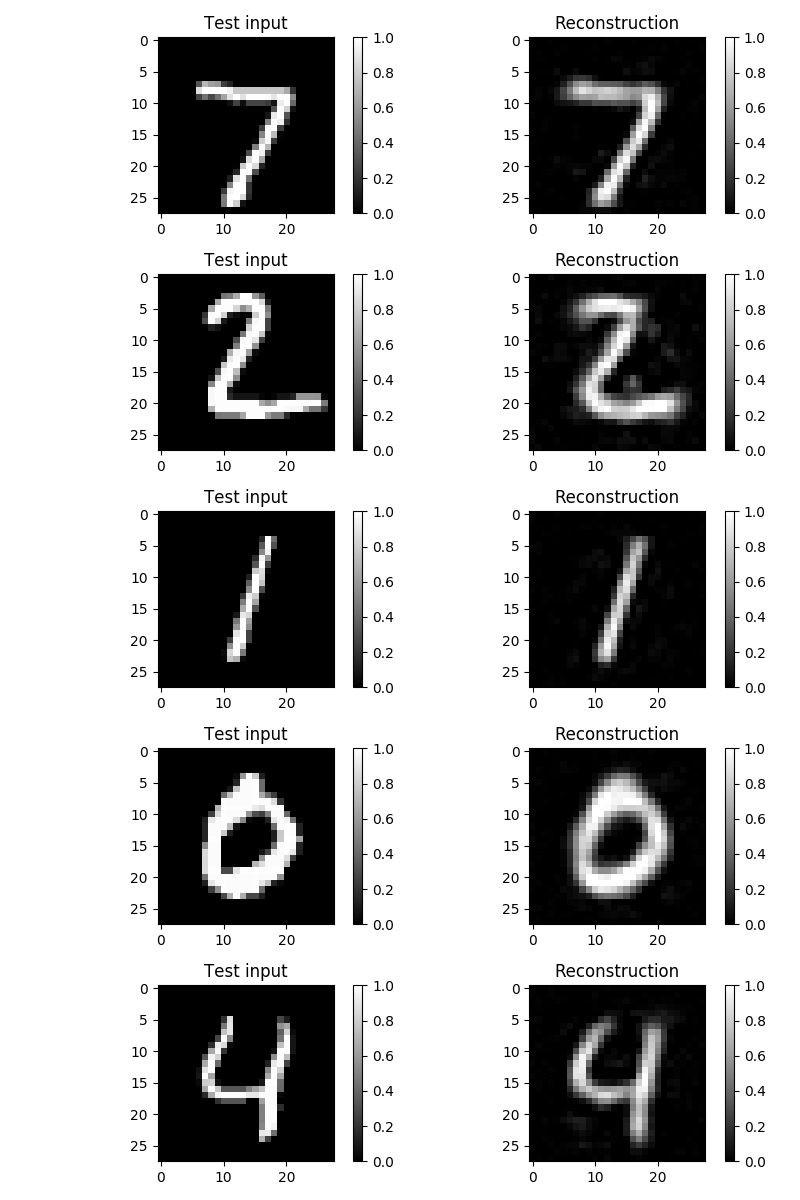
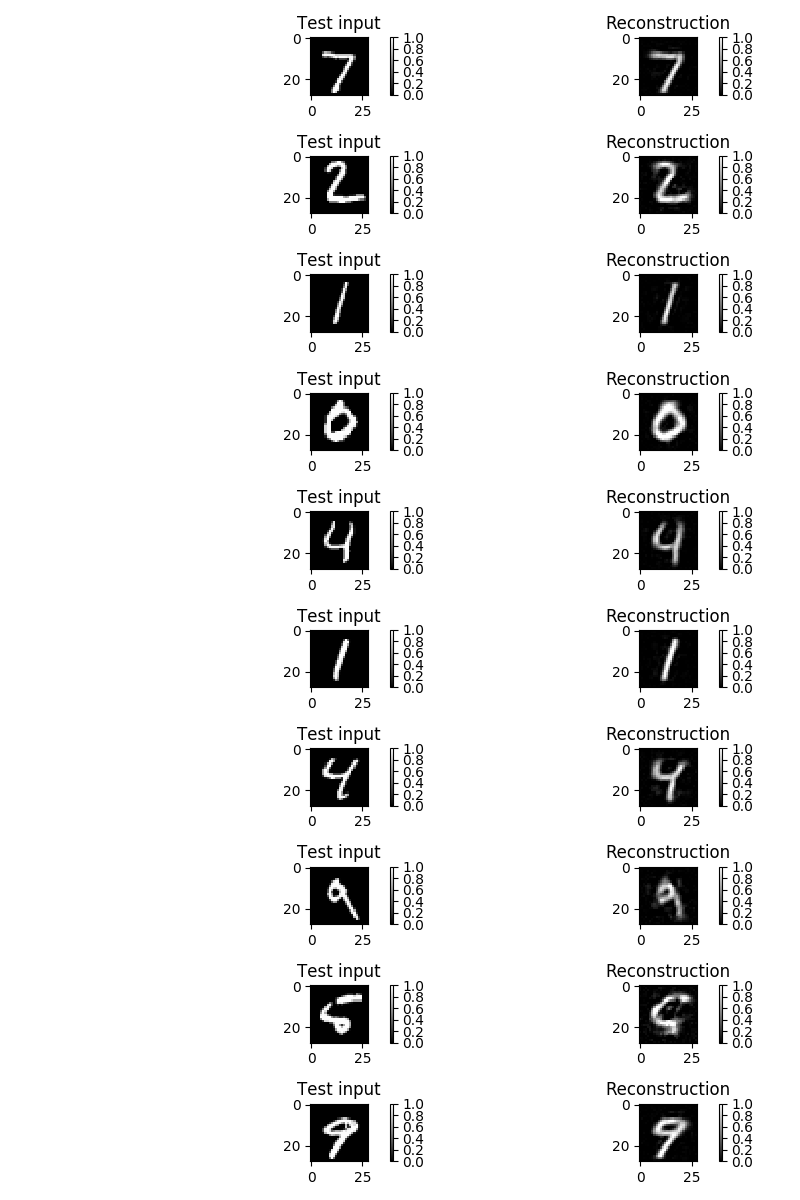
increase num of reconstructed images

diff --git a/VAE/utils/metrics.py b/VAE/utils/metrics.py
@@ -31,21 +31,22 @@ def print_test_accuracy(correct, cls_pred, labels):
     plot_confusion_matrix(cls_pred=cls_pred, labels=labels)
 
 
-def plot_images(x_test, x_reconstruct):
-    assert len(x_test) == 10
+def plot_images(x_test, x_reconstruct, n_images):
+    assert len(x_test) == n_images
     print("x_reconstruct:{}, x_test:{}".format(x_reconstruct.shape, x_test.shape))
 
-    plt.figure(figsize=(8, 12))
-    for i in range(10):
+    plt.figure()
+    for i in range(n_images):
         # Plot image.
-        plt.subplot(10, 2, 2 * i + 1)
+        plt.subplot(n_images, 2, 2 * i + 1)
         plt.imshow(x_test[i].reshape(28, 28), vmin=0, vmax=1, cmap="gray")
         plt.title("Test input")
         plt.colorbar()
-        plt.subplot(10, 2, 2 * i + 2)
+        plt.subplot(n_images, 2, 2 * i + 2)
         plt.imshow(x_reconstruct[i].reshape(28, 28), vmin=0, vmax=1, cmap="gray")
         plt.title("Reconstruction")
         plt.colorbar()
 
     plt.tight_layout()
     plt.savefig("reconstructed_digit")
+    plt.axis('off')

diff --git a/train_semi_supervised.py b/train_semi_supervised.py
@@ -86,7 +86,7 @@ def reconstruct(x_test):
 
 
 def test_reconstruction():
-    x_test = data.test.next_batch(100)[0][0:10, ]
+    x_test = data.test.next_batch(100)[0][0:20, ]
     plot_images(x_test, reconstruct(x_test))
 
 
